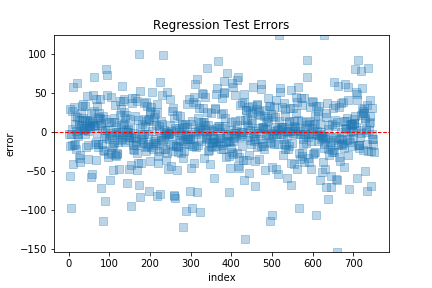
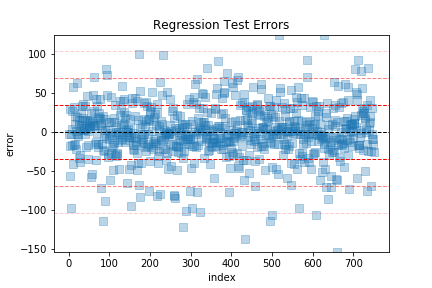
Add normal distribution plot

diff --git a/Assignment 2/TrafficPlotter.py b/Assignment 2/TrafficPlotter.py
@@ -99,6 +99,8 @@ import pandas as pd
 from sklearn.linear_model import BayesianRidge
 from sklearn.preprocessing import MinMaxScaler
 from sklearn.metrics import mean_absolute_error, r2_score
+import math
+import matplotlib.mlab as mlab
 
 # Feature Selection
 def extract(data, slide=range, max_range=None):
@@ -152,13 +154,39 @@ r2s = r2_score(Y_test, y_pred)
 print(r2s)
 
 # plotting errors
-fig, ax = plt.subplots()
 test_err = Y_test - y_pred
+mu = test_err.sum()/750
+variance = ((test_err - mu)**2).sum()/750
+sigma = math.sqrt(variance)
+
+fig, ax = plt.subplots()
 plt.scatter(range(1,751), test_err, s=50, alpha=0.3, marker='s')
 plt.ylim(min(test_err), max(test_err))
-plt.axhline(0, color='red', linestyle='--', linewidth=1)
+plt.axhline(mu, color='black', linestyle='--', linewidth=1, label='mean') # along the mean
+plt.axhline(mu+sigma, color='red', linestyle='--', linewidth=1, label='1 s.d') # along one standard deviation
+plt.axhline(mu-sigma, color='red', linestyle='--', linewidth=1) # 68% of data
+plt.axhline(mu+2*sigma, color='red', linestyle='--', alpha=0.5, linewidth=1, label='2 s.d') # along two standard deviations
+plt.axhline(mu-2*sigma, color='red', linestyle='--', alpha=0.5, linewidth=1) # 95% of data
+plt.axhline(mu+3*sigma, color='red', linestyle='--', alpha=0.2, linewidth=1, label='3 s.d') # along 3 standard deviations
+plt.axhline(mu-3*sigma, color='red', linestyle='--', alpha=0.2, linewidth=1) # 99.7% of data
 plt.xlabel('index')
 plt.ylabel('error')
 plt.title('Regression Test Errors')
 plt.show
 plt.savefig('data/Traffic_flow/plots/BRR_TestErrors.png')
+
+# plot normal distribution
+fig, ax = plt.subplots()
+x = np.linspace(min(test_err), max(test_err), 750)
+plt.plot(x,mlab.normpdf(x, mu, sigma))
+plt.axvline(mu, color='black', linestyle='--', linewidth=1, label='mean')
+plt.axvline(mu+sigma, color='red', linestyle='--', linewidth=1, label='1 s.d')
+plt.axvline(mu-sigma, color='red', linestyle='--', linewidth=1)
+plt.axvline(mu+2*sigma, color='red', linestyle='--', alpha=0.5, linewidth=1, label='2 s.d')
+plt.axvline(mu-2*sigma, color='red', linestyle='--', alpha=0.5, linewidth=1)
+plt.axvline(mu+3*sigma, color='red', linestyle='--', alpha=0.2, linewidth=1, label='3 s.d')
+plt.axvline(mu-3*sigma, color='red', linestyle='--', alpha=0.2, linewidth=1)
+plt.xlabel('error')
+plt.title('Normal Distribution of Errors')
+plt.savefig('data/Traffic_flow/plots/BRR_ErrorNormDist.png')
+plt.show()
